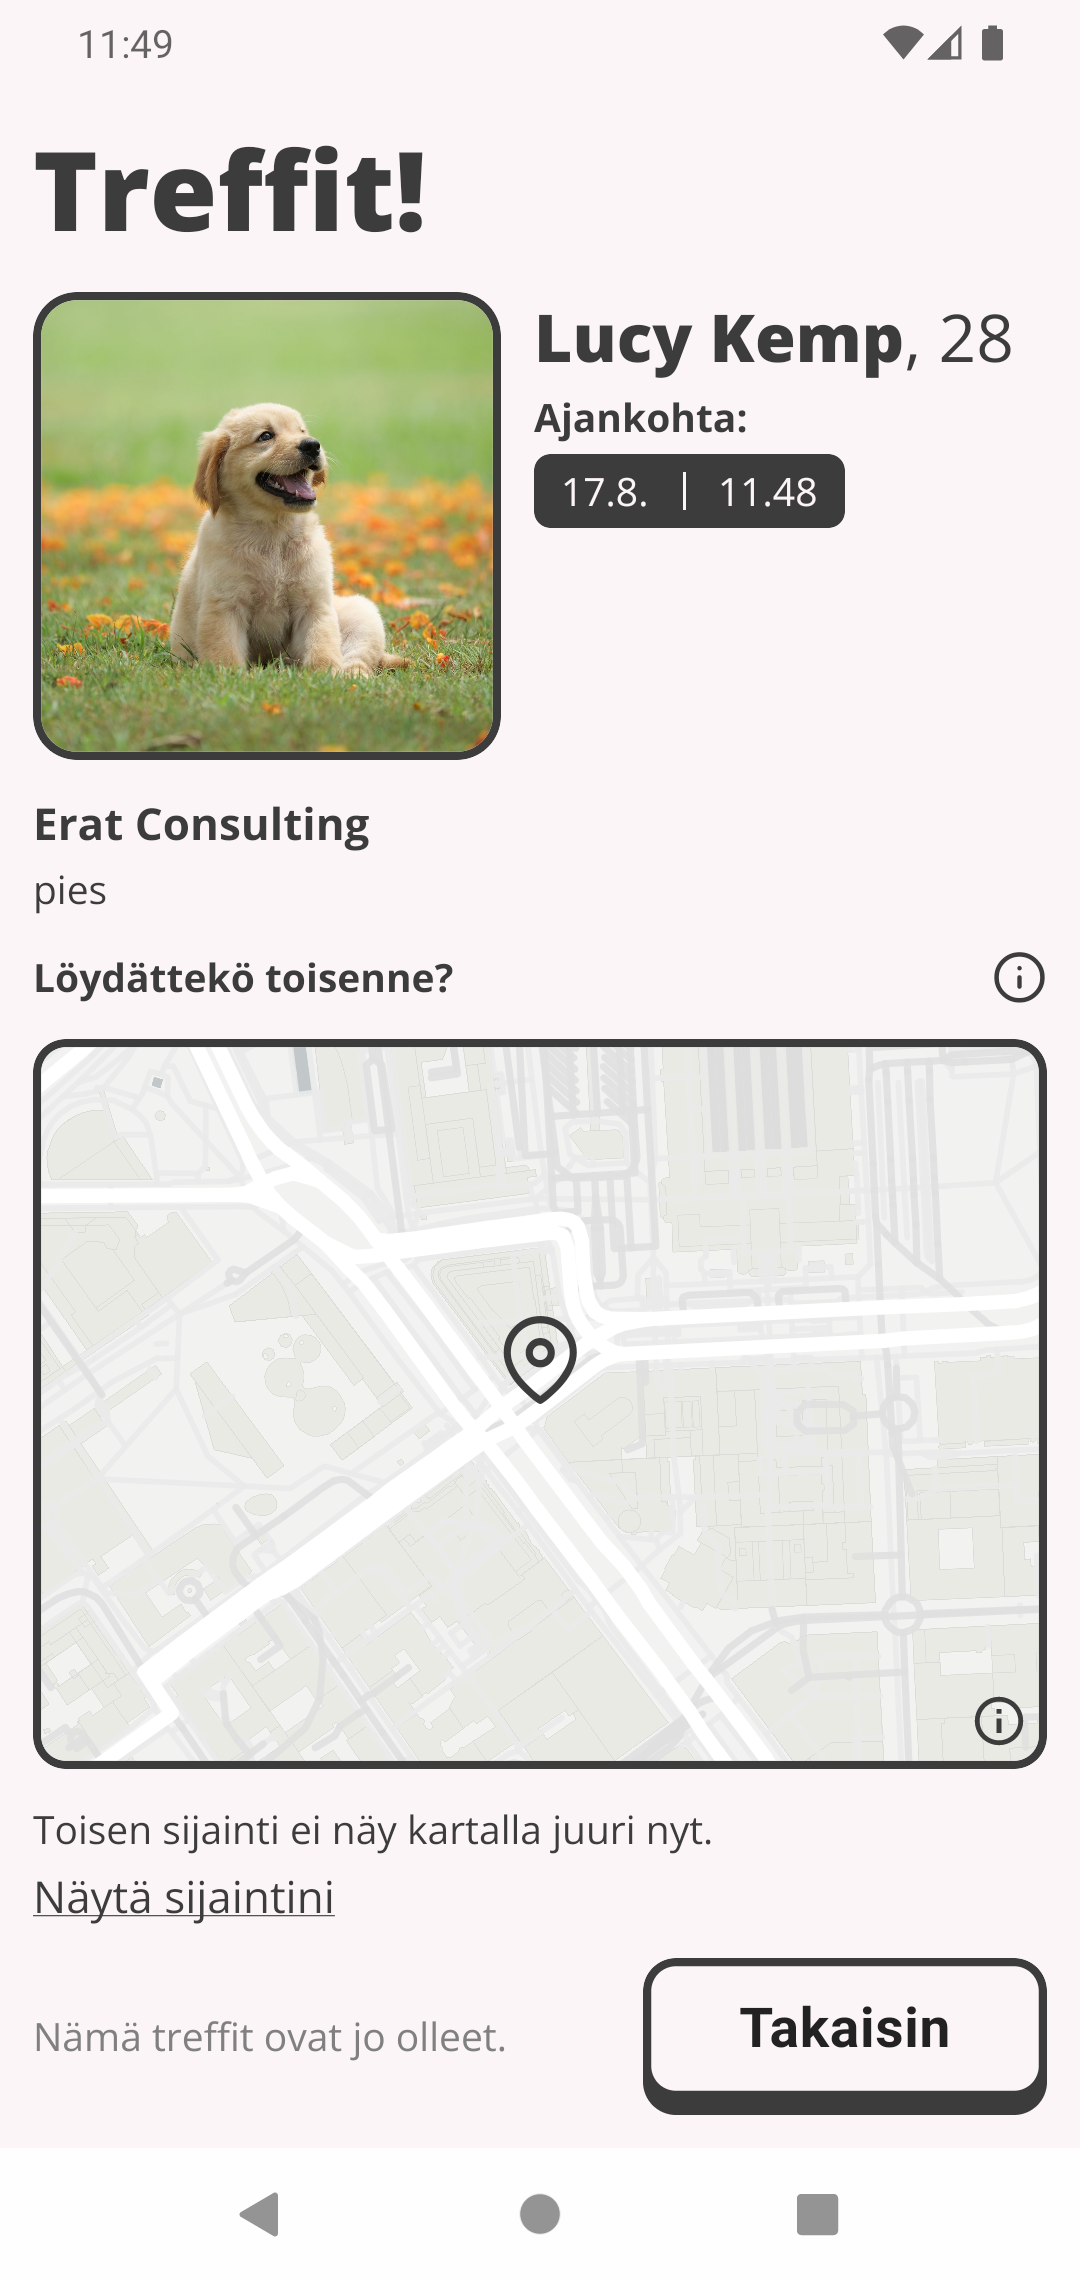
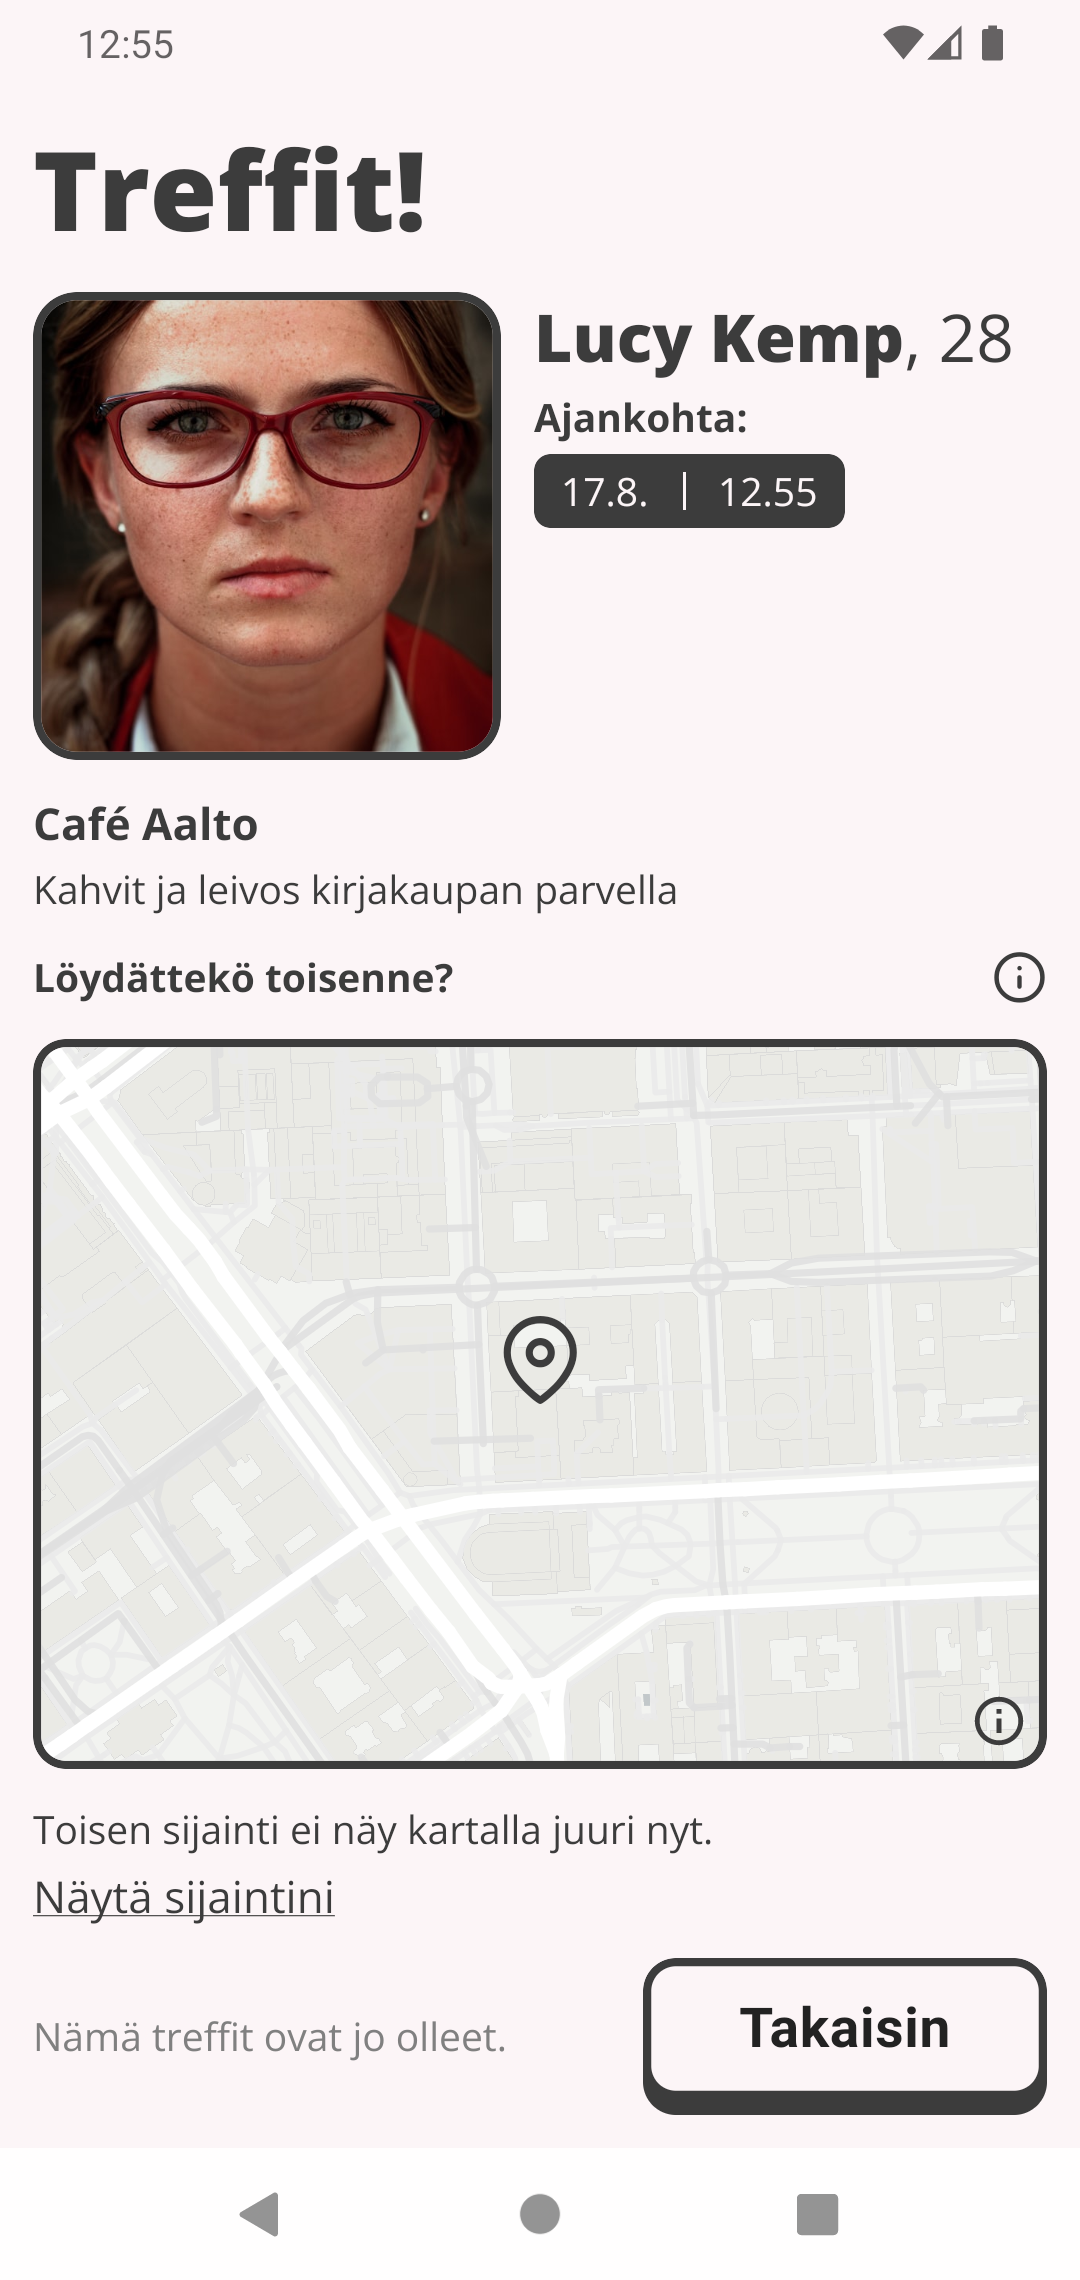
feat: real screenshots, and the right screen for each step
Six screens from a real build, on a fixture that now looks like a dating app:
ten mock users with their own portraits and five real central Helsinki cafes and
parks in place of one shared photograph and a venue called Erat Consulting.

Two steps were showing the wrong screen. `Kay tarinatesti` showed the question
sets, which are a different feature that the site itself says does not affect
matching; it now shows the story test in onboarding, where that step happens.
`Valitse ehdokas` showed the home screen; it now shows the platter, which is what
a rose buys.

The economy section states the rate once with its direction, `5 petals = 1 rose`,
over a list of earnings whose amounts line up as a column of figures. Two equal
cards stated the rate twice and put the currencies in competition.

The mark is the sparkle, ported from the app's own `Logo.tsx` with that file's
constants rather than approximated: the sparkle overlaps the word's top right
corner, and beside it on the baseline it reads as a different logo. The favicon is
the sparkle alone, because `icon.png` is an Android launcher icon drawn for a
rounded mask and is a smudge at 16px.

diff --git a/src/i18n/ui.ts b/src/i18n/ui.ts
@@ -66,14 +66,17 @@ const fi = {
     'Kun kutsu on hyväksytty, treffit ovat sovitut. Jälkeenpäin kerrot miten meni, ja samalla terälehdet maksetaan.',
 
   'economy.title': 'Terälehdet ja ruusut',
-  'economy.lead':
-    'Kaksi asiaa, ja ne toimivat yksinkertaisesti. Terälehtiä keräät tekemällä asioita sovelluksessa. Ruusu on se, millä ostat uuden valikoiman ehdokkaita.',
-  'economy.petal.title': 'Terälehti',
-  'economy.petal.body':
-    'Yksi terälehti kolmesta kalenteriin merkitystä treffiajasta, kaksi käydyistä treffeistä kun olet kertonut miten meni, ja viisi rekisteröinnin viimeistelystä.',
-  'economy.rose.title': 'Ruusu',
-  'economy.rose.body':
-    'Viisi terälehteä on yksi ruusu, ja ruusu ostaa kolmen ehdokkaan valikoiman. Ruusu kuluu valikoiman avaamiseen, joten kutsun lähettäminen ei maksa enää mitään.',
+  'economy.lead': 'Viisi terälehteä on yksi ruusu, ja ruusulla avaat kolmen ehdokkaan valikoiman.',
+  'economy.earn.title': 'Näin terälehdet kertyvät',
+  'economy.spend.title': 'Näin ruusu kuluu',
+  'economy.spend.body':
+    'Ruusu kuluu sillä hetkellä, kun avaat valikoiman. Kutsun lähettäminen ei maksa enää mitään.',
+  'economy.earn.calendar': 'Kolme kalenteriin merkittyä treffiaikaa',
+  'economy.earn.date': 'Treffit, kun olet kertonut miten meni',
+  'economy.earn.signup': 'Rekisteröinnin viimeistely',
+  'economy.amount.one': '1 terälehti',
+  'economy.amount.two': '2 terälehteä',
+  'economy.amount.five': '5 terälehteä',
   'economy.note':
     'Terälehtiä voi kerätä kerrallaan viidentoista asti. Määrät voivat muuttua betavaiheen aikana.',
 
@@ -125,7 +128,8 @@ const fi = {
 
   'shot.treffit': 'Pilkkeen etusivu puhelimessa: ruusujen ja terälehtien määrä ylhäällä, alla omat treffit ja saapuneet kutsut.',
   'shot.kalenteri': 'Kalenterinäkymä, jossa viikon päivät ja niihin merkityt vapaat treffiajat.',
-  'shot.kysymykset': 'Kysymyssarjat-sivu, jossa luettelo vastattavista kysymyssarjoista.',
+  'shot.story': 'Tarinatestin ensimmäinen kysymys onboardingissa: tilanne ja kolme vaihtoehtoa, joista valitaan yksi.',
+  'shot.platter': 'Ehdokkaat-näkymä: yksi kolmesta ehdokkaasta, hänen kanssaan yhteiset ajat ja valittu tekeminen.',
   'shot.asetukset': 'Asetusten Turvallisuus-osio avattuna, ja siinä kenttä luotettavan henkilön numerolle.',
   'shot.date': 'Sovitut treffit puhelimessa: aika, paikka kartalla ja turvapainike.',
 
@@ -185,14 +189,17 @@ const en: Record<keyof typeof fi, string> = {
     'Once the invitation is accepted, the date is set. Afterwards you say how it went, and that is also when your petals are paid.',
 
   'economy.title': 'Petals and roses',
-  'economy.lead':
-    'Two things, and they work simply. You collect petals by keeping the app up to date and by going on dates. A rose is what buys you a new set of candidates.',
-  'economy.petal.title': 'Petal',
-  'economy.petal.body':
-    'One petal for every three times you mark in your calendar, two for a date once you have said how it went, and five for finishing your registration.',
-  'economy.rose.title': 'Rose',
-  'economy.rose.body':
-    'Five petals are one rose, and a rose buys a set of three candidates. The rose goes when the set is drawn, so sending the invitation itself costs nothing.',
+  'economy.lead': 'Five petals are one rose, and a rose opens a set of three candidates.',
+  'economy.earn.title': 'How petals add up',
+  'economy.spend.title': 'How a rose goes',
+  'economy.spend.body':
+    'A rose goes the moment you open a set. Sending the invitation costs nothing more.',
+  'economy.earn.calendar': 'Three times marked in your calendar',
+  'economy.earn.date': 'A date, once you have said how it went',
+  'economy.earn.signup': 'Finishing your registration',
+  'economy.amount.one': '1 petal',
+  'economy.amount.two': '2 petals',
+  'economy.amount.five': '5 petals',
   'economy.note':
     'You can hold up to fifteen petals at a time. The amounts may change during the beta.',
 
@@ -244,7 +251,8 @@ const en: Record<keyof typeof fi, string> = {
 
   'shot.treffit': 'The Pilke home screen on a phone: your roses and petals along the top, your dates and the invitations you have received below.',
   'shot.kalenteri': 'The calendar view, with the days of the week and the times marked as free.',
-  'shot.kysymykset': 'The question sets page, listing the sets you can answer.',
+  'shot.story': 'The first question of the story test during onboarding: a situation and three options, one of which you pick.',
+  'shot.platter': 'The candidates view: one of three candidates, the times you both have, and the chosen activity.',
   'shot.asetukset': 'The Safety section of the settings, open, with the field for a trusted person\u2019s number.',
   'shot.date': 'An agreed date on a phone: the time, the venue on a map, and the safety button.',
 

diff --git a/src/components/variants/data.ts b/src/components/variants/data.ts
@@ -8,7 +8,8 @@
 import asetukset from '../../assets/screens/asetukset.png';
 import date from '../../assets/screens/date.png';
 import kalenteri from '../../assets/screens/kalenteri.png';
-import kysymykset from '../../assets/screens/kysymykset.png';
+import platter from '../../assets/screens/platter.png';
+import story from '../../assets/screens/story.png';
 import treffit from '../../assets/screens/treffit.png';
 import { useTranslations, type Lang } from '../../i18n/ui';
 
@@ -22,7 +23,7 @@ import { useTranslations, type Lang } from '../../i18n/ui';
  * All five are real screenshots of a real build, taken by
  * `pilke-app/.maestro/demo/screenshots.yaml` and `screenshotDate.yaml`.
  */
-export const shots = { treffit, kalenteri, kysymykset, asetukset, date } as const;
+export const shots = { treffit, kalenteri, story, platter, asetukset, date } as const;
 
 export function content(lang: Lang) {
   const t = useTranslations(lang);
@@ -36,9 +37,9 @@ export function content(lang: Lang) {
     ],
     steps: [
       { title: t('how.one.title'), body: t('how.one.body'), shot: null, alt: '' },
-      { title: t('how.two.title'), body: t('how.two.body'), shot: shots.kysymykset, alt: t('shot.kysymykset') },
+      { title: t('how.two.title'), body: t('how.two.body'), shot: shots.story, alt: t('shot.story') },
       { title: t('how.three.title'), body: t('how.three.body'), shot: shots.kalenteri, alt: t('shot.kalenteri') },
-      { title: t('how.four.title'), body: t('how.four.body'), shot: shots.treffit, alt: t('shot.treffit') },
+      { title: t('how.four.title'), body: t('how.four.body'), shot: shots.platter, alt: t('shot.platter') },
       { title: t('how.five.title'), body: t('how.five.body'), shot: shots.date, alt: t('shot.date') },
     ],
     safety: [
